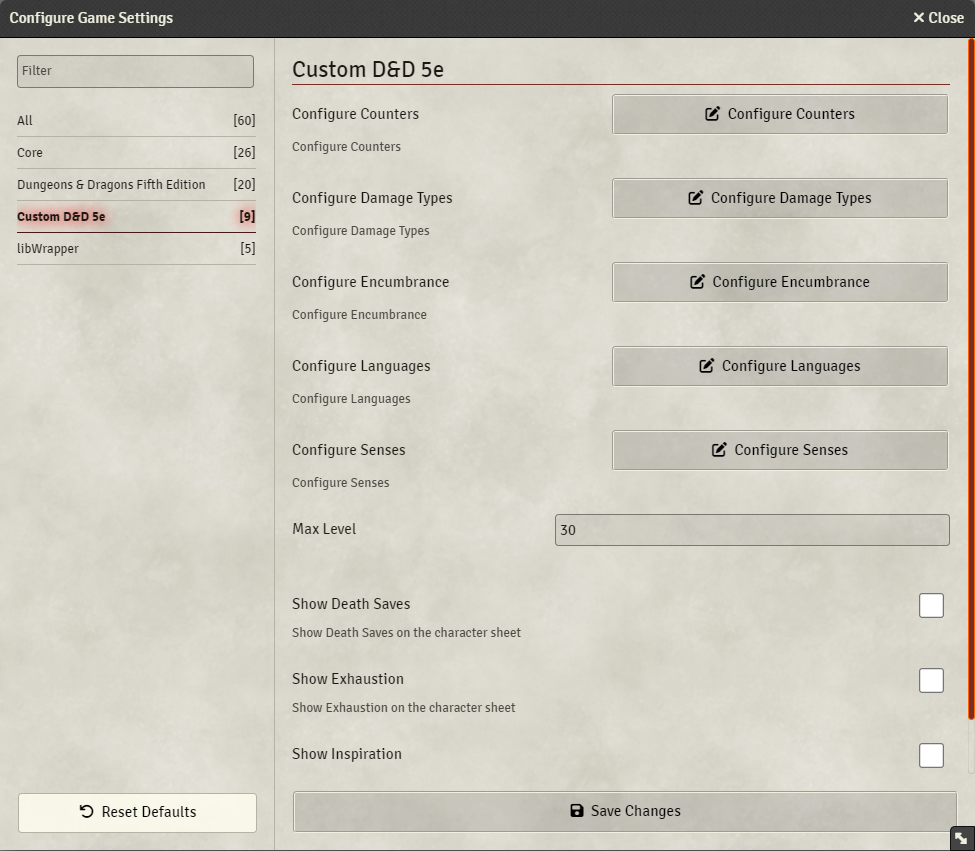
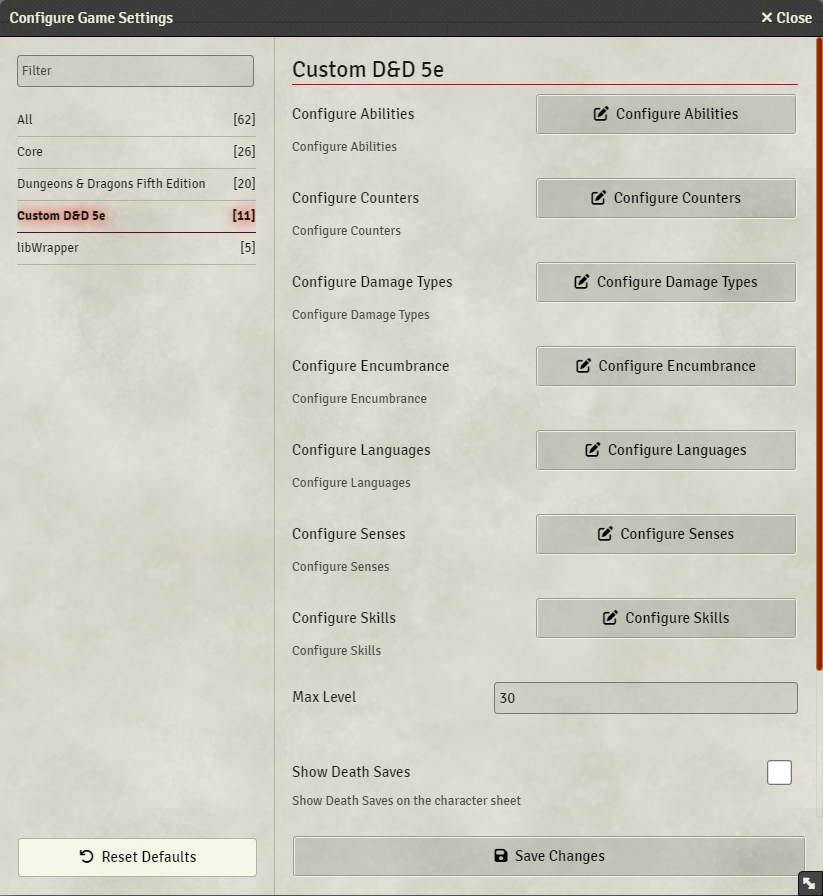
Update README

diff --git a/README.md b/README.md
@@ -8,11 +8,7 @@ A Foundry VTT module to customise the D&D 5e system.
 
 # Features
 - Add four types of counter to the character sheets: checkbox, fraction, number and success/failure.
-- Configure damage types.
-- Configure encumbrance.
-- Configure languages.
-- Configure senses.
-- Configure max level.
+- Configure abilities, damage types, encumbrance, languages, senses, skills and max level.
 - Hide death saves on the character sheet.
 - Hide exhaustion on the character sheet.
 - Hide inspiration on the new character sheet.
